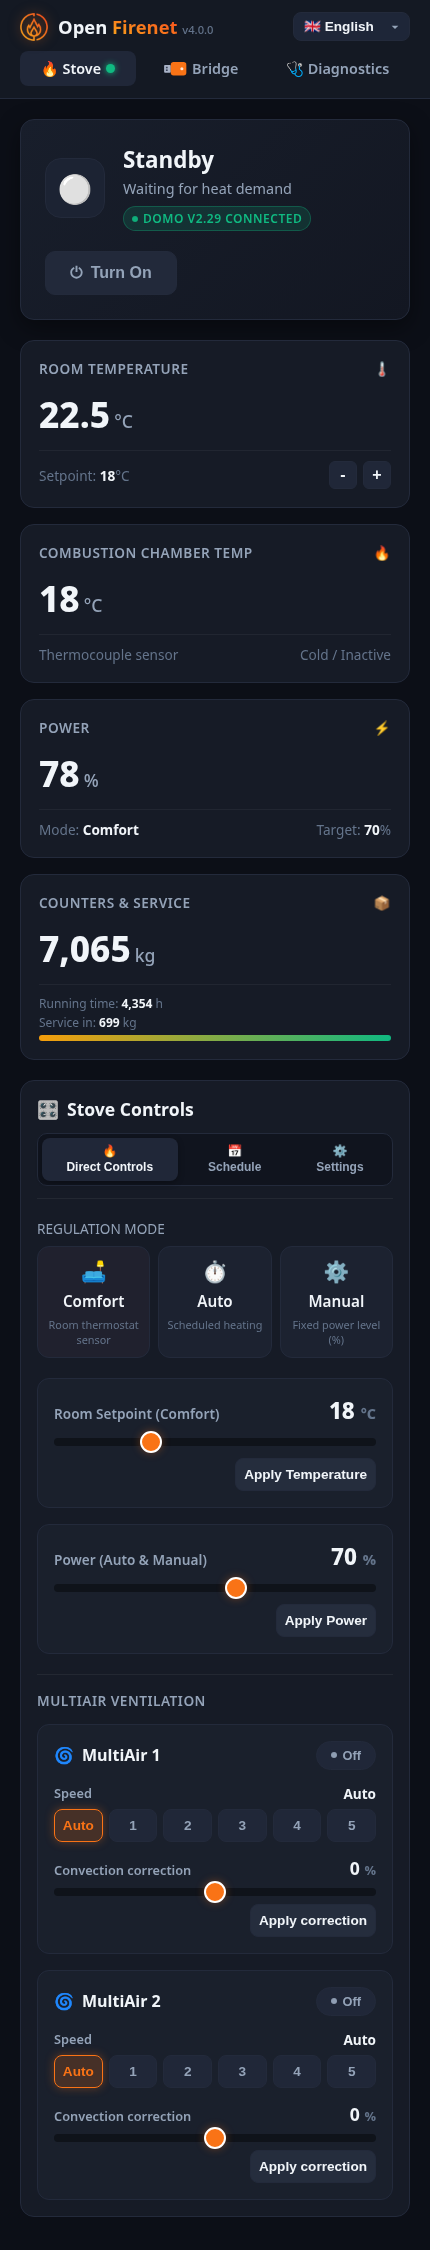
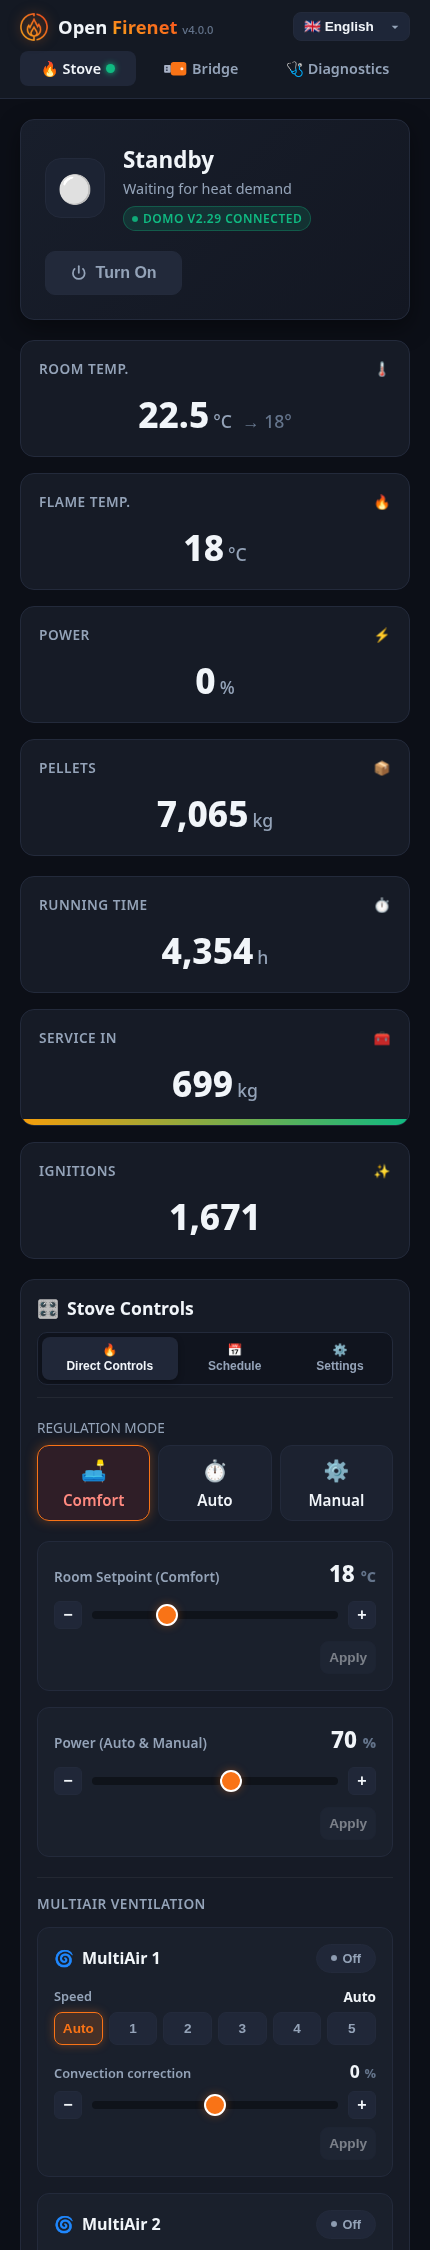
Screenshots of the 4.2.0 page and of the installer 1.11, guided installation, actual heating power

diff --git a/api-reference.html b/api-reference.html
@@ -37,7 +37,7 @@
 </header>
 <main>
 <h1>API reference</h1>
-<p class="lead">Every endpoint of the bridge, with its fields, types, units and ranges. Generated from the <a href="openapi.yaml">OpenAPI description</a> of firmware 4.1.0.</p>
+<p class="lead">Every endpoint of the bridge, with its fields, types, units and ranges. Generated from the <a href="openapi.yaml">OpenAPI description</a> of firmware 4.2.0.</p>
 <p>Local REST API of the Open Firenet bridge, the ESP32-S3 that replaces the RIKA Firenet stick. It is served on your network at <code>http://open-firenet.local</code> (or the bridge's IP address), without key or account.</p>
 <p>Units are natural ones: temperatures in °C, power in percent, readable mode names.</p>
 <p><b>Field names.</b> Only the recommended names are described here, the ones used by the Home Assistant integration and by MQTT. For historical reasons the bridge also accepts older aliases in commands (for example <code>tempRoomTarget</code> for <code>target_temperature</code>, or the plain-text form <code>onOff=1; heatingPower=70;</code>), and <code>GET /api/controls</code> also returns the settings under the stove's own names and units (<code>onOff</code>, <code>tempRoomTarget</code> in tenths of a degree...). New code should not rely on them.</p>
@@ -403,6 +403,7 @@
   <tr><td><code>service_countdown_kg</code></td><td>integer</td><td>Pellets left before the next service</td></tr>
   <tr><td><code>fan_speed_rpm</code></td><td>integer</td><td></td></tr>
   <tr><td><code>auger_speed_rpm</code></td><td>integer</td><td></td></tr>
+  <tr><td><code>power_actual_percent</code></td><td>integer</td><td>Power the stove really runs at. In comfort mode the stove sets it itself, whatever <code>power_percent</code> says. 0 when it is not heating.</td></tr>
   <tr><td><code>air_flaps_percent</code></td><td>number or <code>null</code></td><td></td></tr>
   <tr><td><code>air_flaps_target_percent</code></td><td>number or <code>null</code></td><td></td></tr>
 </table>

diff --git a/home-assistant.html b/home-assistant.html
@@ -72,7 +72,7 @@
   <tr><td>Switches</td><td>Weekly heating schedule, frost protection</td></tr>
   <tr><td>Heating schedule</td><td>A button that copies a Home Assistant schedule to the stove; a start and an end time for each slot, disabled by default</td></tr>
   <tr><td>Numbers</td><td>Setback temperature, frost protection temperature, room sensor calibration, baking oven temperature (DOMO BACK)</td></tr>
-  <tr><td>Sensors</td><td>Room, combustion chamber and mainboard temperatures, pellets consumed, running hours, service countdown, fan and auger speeds, stove state, Wi-Fi signal, air flaps</td></tr>
+  <tr><td>Sensors</td><td>Room, combustion chamber and mainboard temperatures, pellets consumed, running hours, service countdown, actual heating power, fan and auger speeds, stove state, Wi-Fi signal, air flaps</td></tr>
   <tr><td>Diagnostics</td><td>Link with the stove, combustion active, stove error, hopper lid, error and warning codes</td></tr>
 </table>
 </div>

diff --git a/src/home-assistant.html b/src/home-assistant.html
@@ -36,7 +36,7 @@
   <tr><td>Switches</td><td>Weekly heating schedule, frost protection</td></tr>
   <tr><td>Heating schedule</td><td>A button that copies a Home Assistant schedule to the stove; a start and an end time for each slot, disabled by default</td></tr>
   <tr><td>Numbers</td><td>Setback temperature, frost protection temperature, room sensor calibration, baking oven temperature (DOMO BACK)</td></tr>
-  <tr><td>Sensors</td><td>Room, combustion chamber and mainboard temperatures, pellets consumed, running hours, service countdown, fan and auger speeds, stove state, Wi-Fi signal, air flaps</td></tr>
+  <tr><td>Sensors</td><td>Room, combustion chamber and mainboard temperatures, pellets consumed, running hours, service countdown, actual heating power, fan and auger speeds, stove state, Wi-Fi signal, air flaps</td></tr>
   <tr><td>Diagnostics</td><td>Link with the stove, combustion active, stove error, hopper lid, error and warning codes</td></tr>
 </table>
 </div>

diff --git a/get-started.html b/get-started.html
@@ -58,7 +58,7 @@
   </li>
   <li>
     <h3>Flash the board with the installer</h3>
-    <p>Download the installer for your computer from the <a href="https://github.com/openfirenet/open-firenet-installer/releases">releases page</a>, plug the board into your computer and open the USB Flash tab. The installer downloads the latest official firmware, checks its signature and writes it to the board.</p>
+    <p>Download the installer for your computer from the <a href="https://github.com/openfirenet/open-firenet-installer/releases">releases page</a>, and plug the board into your computer. The installer tells you it found it, reads it and preselects <b>First installation</b> in the USB Flash tab. It downloads the latest official firmware, checks its signature, writes it to the board, then takes you to the Wi-Fi setup.</p>
     <figure>
       <img class="shot" src="assets/img/usb-flasher.png" alt="USB Flash tab of the installer" width="640">
     </figure>

diff --git a/src/get-started.html b/src/get-started.html
@@ -22,7 +22,7 @@
   </li>
   <li>
     <h3>Flash the board with the installer</h3>
-    <p>Download the installer for your computer from the <a href="https://github.com/openfirenet/open-firenet-installer/releases">releases page</a>, plug the board into your computer and open the USB Flash tab. The installer downloads the latest official firmware, checks its signature and writes it to the board.</p>
+    <p>Download the installer for your computer from the <a href="https://github.com/openfirenet/open-firenet-installer/releases">releases page</a>, and plug the board into your computer. The installer tells you it found it, reads it and preselects <b>First installation</b> in the USB Flash tab. It downloads the latest official firmware, checks its signature, writes it to the board, then takes you to the Wi-Fi setup.</p>
     <figure>
       <img class="shot" src="assets/img/usb-flasher.png" alt="USB Flash tab of the installer" width="640">
     </figure>
